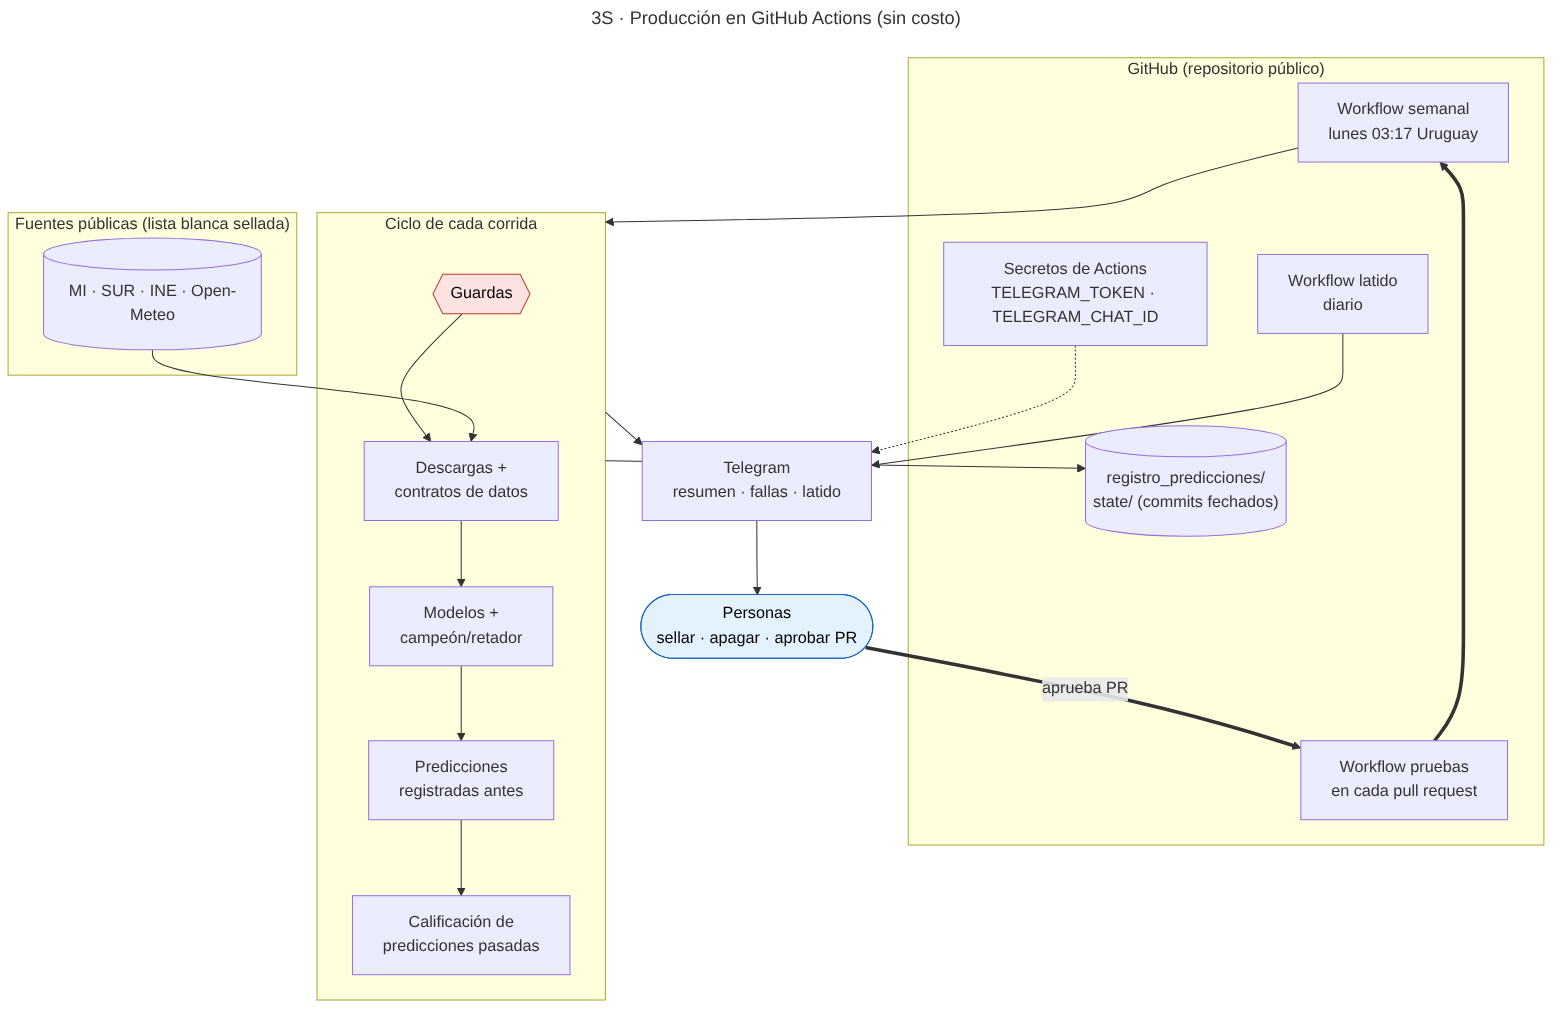
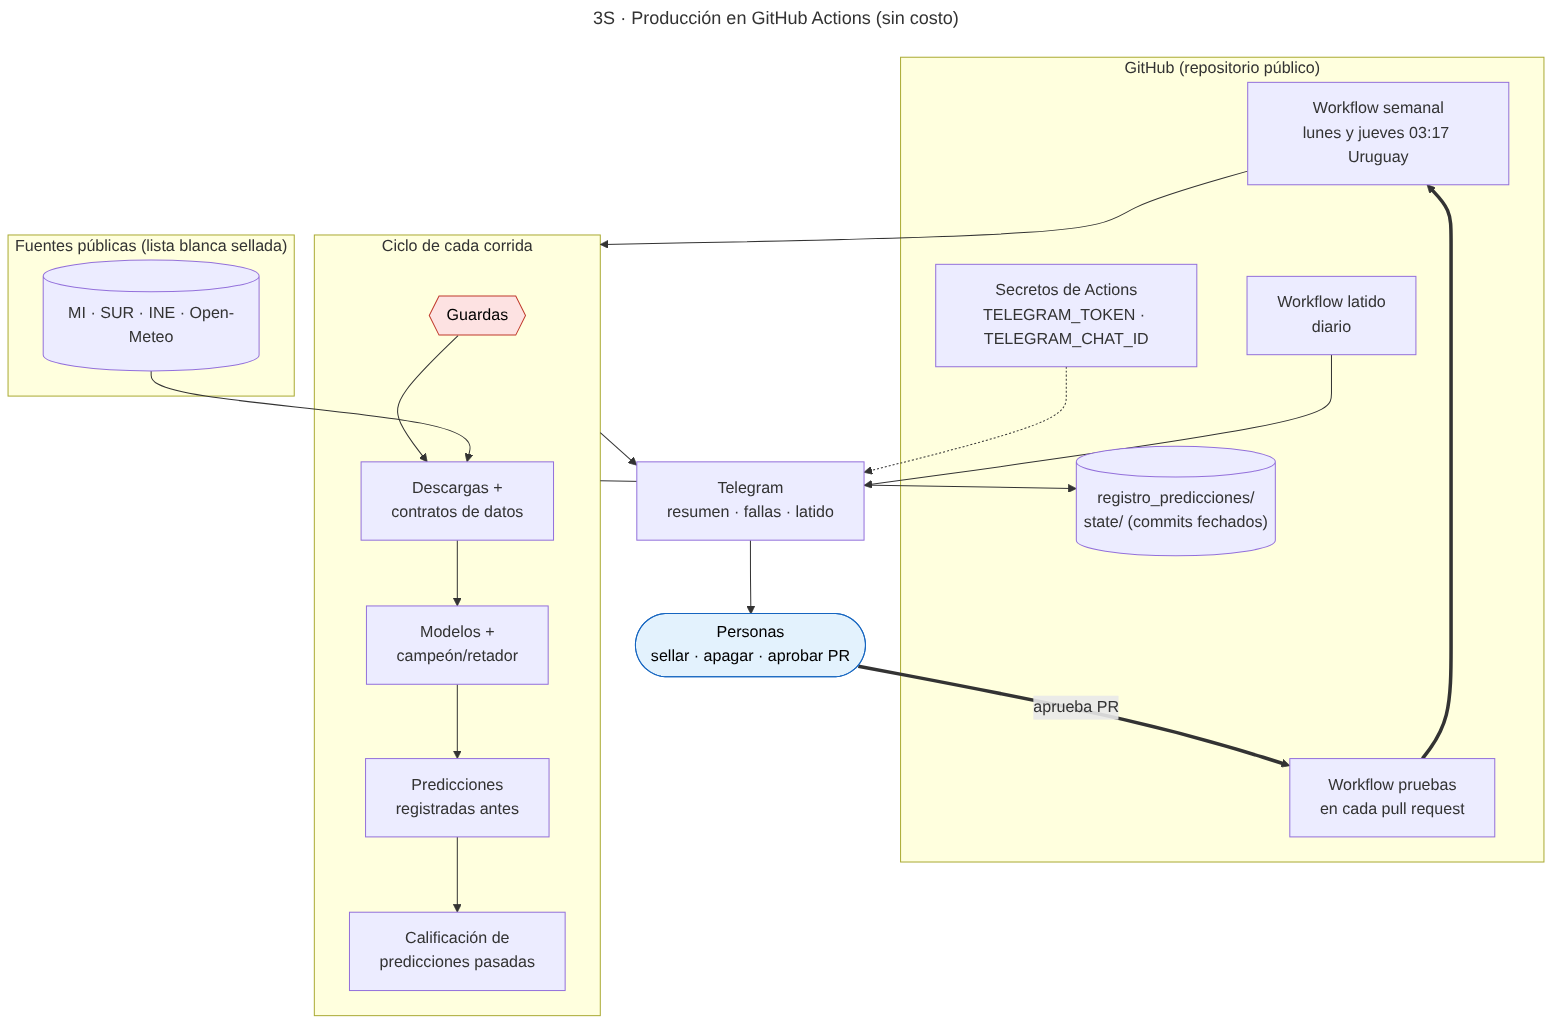
Aviso honesto de descargas fallidas y corrida de los jueves para mantener viva la caché

Changed region(s): [[0.0, 0.0, 1.0, 0.9725]]

diff --git a/src/s3/orquestador.py b/src/s3/orquestador.py
@@ -168,7 +168,8 @@ def resumen_aviso(estado, bitacora, resultados):
         if e in ("detenido", "error", "territorio_error", "contrato_incumplido"):
             lineas.append(f"• {e}: {b.get('motivo') or b.get('detalle')}"[:300])
         elif e == "descarga_fallida":
-            lineas.append(f"• descarga fallida: {b['fuente']} (se usa la copia anterior)")
+            copia = "se usa la copia anterior" if b.get("usa_copia_anterior") else "SIN copia anterior"
+            lineas.append(f"• descarga fallida: {b['fuente']} ({copia}): {b.get('detalle', '')}"[:300])
         elif e == "contrato_adaptado":
             lineas.append(f"• {b['fuente']} cambió columnas y 3S se adaptó: {b['cambios']}")
         elif e == "prediccion_registrada":

diff --git a/README.md b/README.md
@@ -41,7 +41,7 @@ pip install -r requirements.txt
 python run.py --sellar      # solo un humano, después de revisar las reglas
 python run.py               # ciclo completo (descarga unos 430 MB)
 ```
-En producción corre con GitHub Actions (`.github/workflows/semanal.yml`) todos los lunes a las 03:17 de Uruguay. Hay además un latido diario y pruebas automáticas en cada pull request.
+En producción corre con GitHub Actions (`.github/workflows/semanal.yml`) los lunes y jueves a las 03:17 de Uruguay (si las fuentes no cambiaron, no vuelve a descargarlas). Hay además un latido diario y pruebas automáticas en cada pull request.
 
 ## Fuentes
 - Ministerio del Interior: *Delitos denunciados en el Uruguay* (catalogodatos.gub.uy).

diff --git a/documentacion/operacion.md b/documentacion/operacion.md
@@ -3,7 +3,7 @@
 ## Workflows (`.github/workflows/`)
 | Workflow | Cuándo | Qué hace |
 |---|---|---|
-| **3S semanal** | Lunes 03:17 (Uruguay) y a mano con "Run workflow" | Corrida completa, pruebas posteriores y commit del registro y la bitácora |
+| **3S semanal** | Lunes y jueves 03:17 (Uruguay) y a mano con "Run workflow" | Corrida completa, pruebas posteriores y commit del registro y la bitácora |
 | **3S latido** | Todos los días 10:43 | Avisa por Telegram si hace más de 10 días que no hay una corrida exitosa |
 | **3S pruebas** | En cada pull request | Verifica el sello, prepara los datos y corre las pruebas |
 
